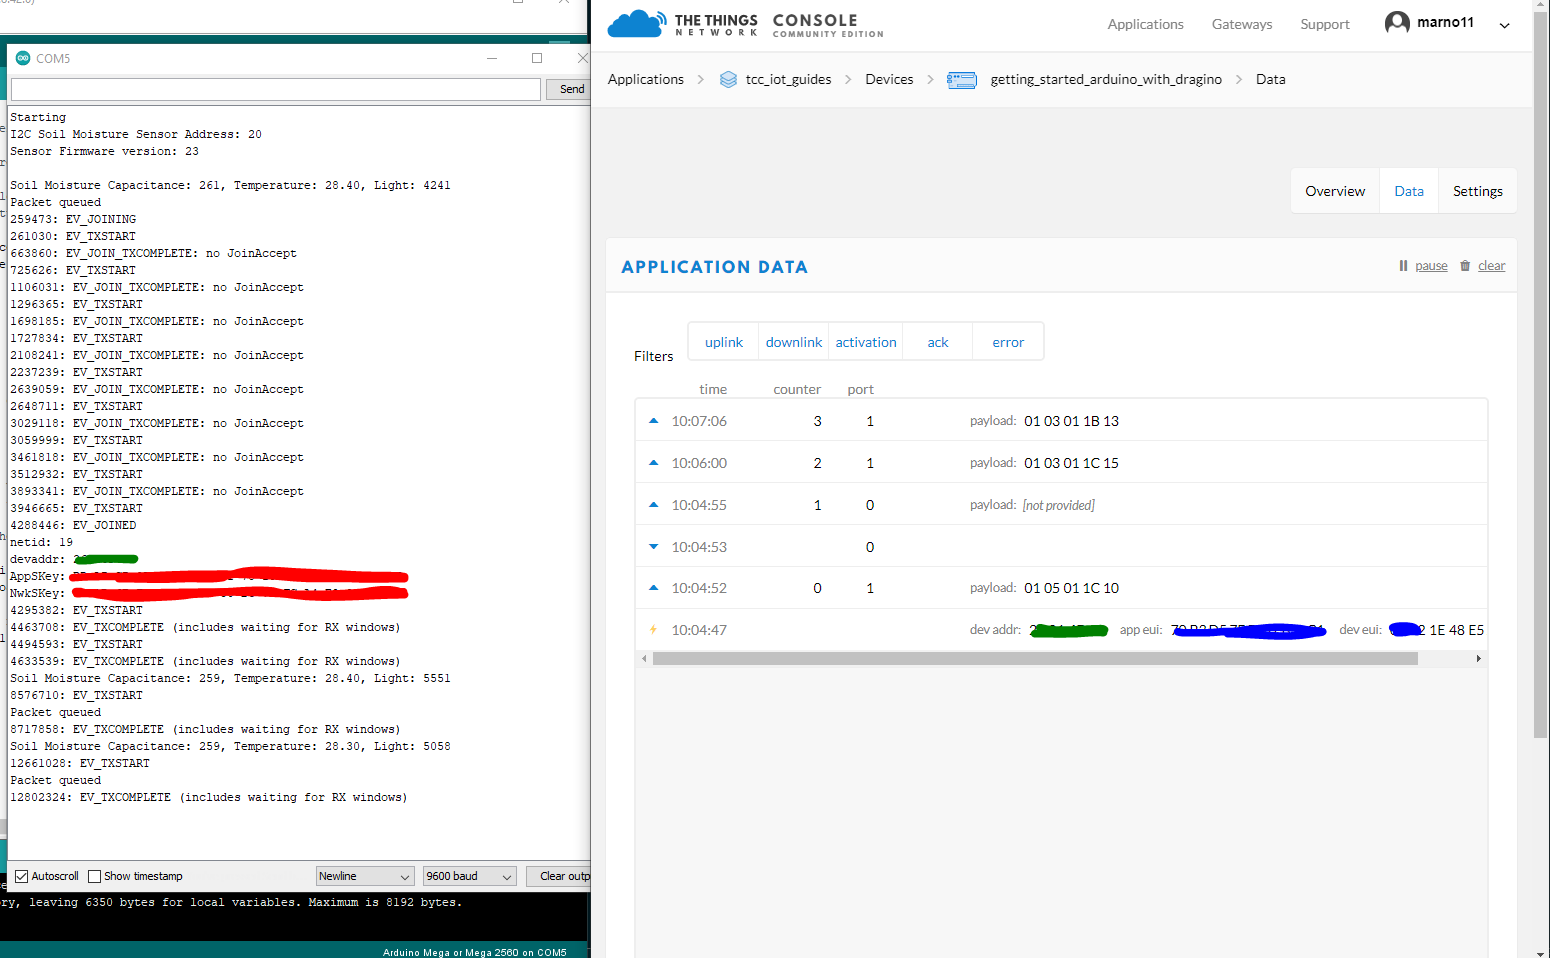
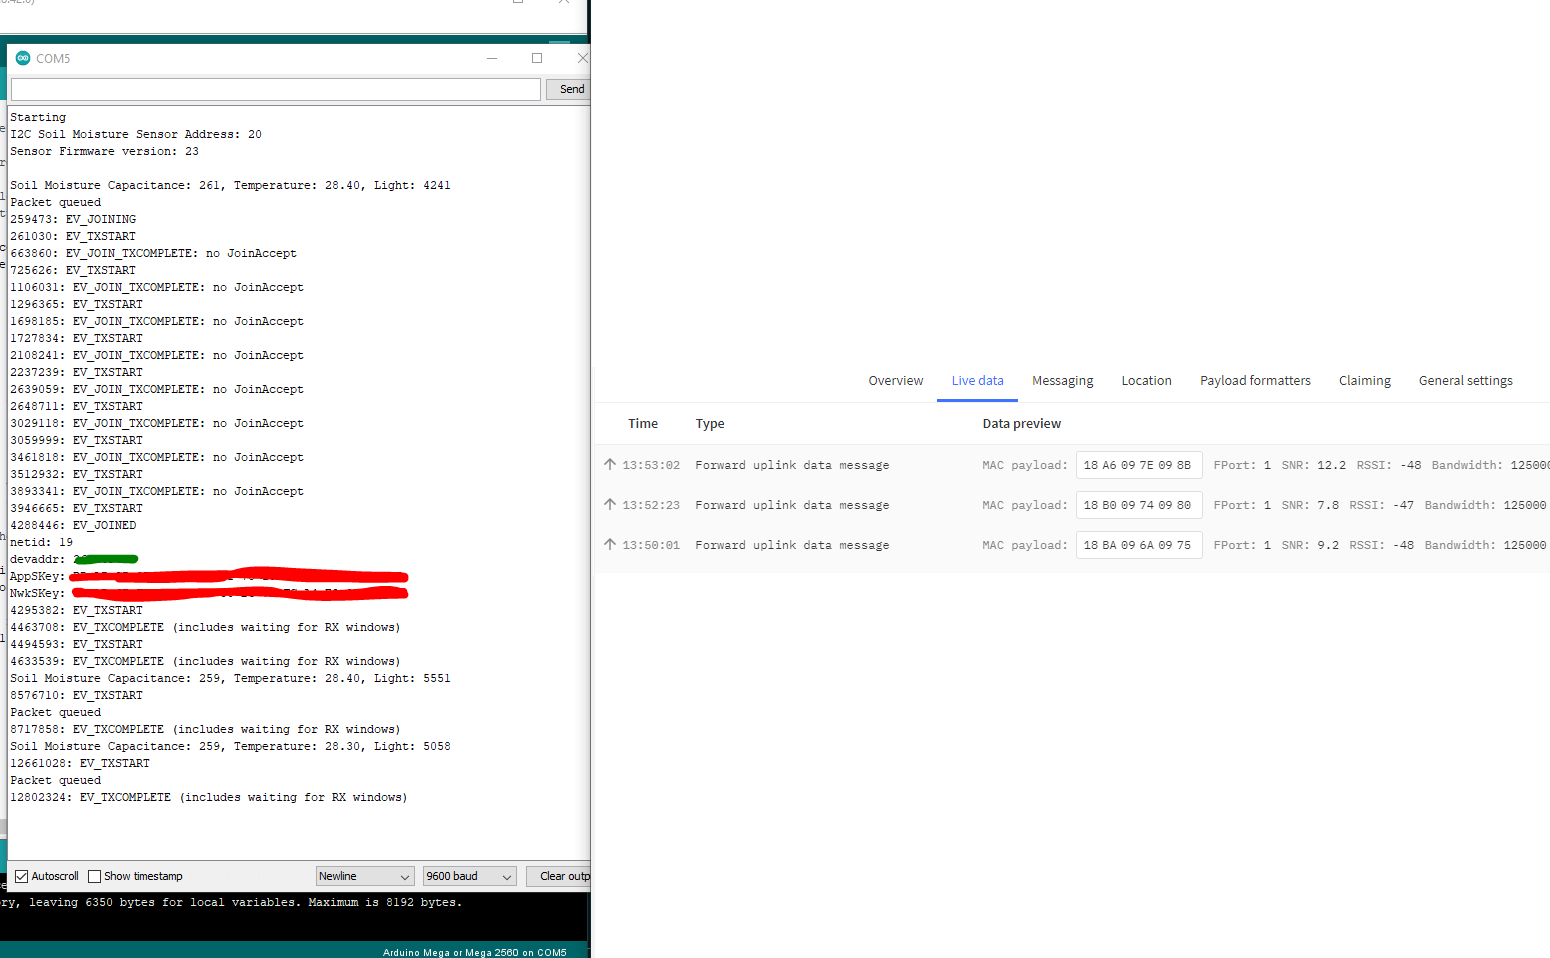
Update V3

diff --git a/README.md b/README.md
@@ -1,17 +1,17 @@
 # Moisture Sensor
-This guide is a continuation of the `Getting Started with the Arduino and Dragino Guide` and will make use of the application (on The Things Network) and device (physical Arduino + Dragino) set up during that guide. If you haven't followed the previous guide you will need to do that first, and  have:
+This guide is a continuation of the `Getting Started with the Arduino and Dragino Guide` and will make use of the application (on The Things Stack) and device (physical Arduino + Dragino) set up during that guide. If you haven't followed the previous guide you will need to do that first, and  have:
 - The Arduino and Dragino connected correctly, with an antenna
 - The Arduino connected your computer, and communicating correctly
 - The Arduino IDE installed
 - The `MCCI LoRaWAN LMIC library` installed and configured correctly, and
-- The Arduino/Dragino registered and communicating with The Things Network
+- The Arduino/Dragino registered and communicating with The Things Stack
 
 ## What you will need
 To follow this guide, you will The setup from the previous guide, with the addition of:
 - An [I2C Soil moisture sensor](https://www.tindie.com/products/miceuz/i2c-soil-moisture-sensor/).
 - 4 jump wires.
 
-You will still need to be in range of a Gateway connected to The Things Network which you can find out about [here](https://www.thethingsnetwork.org/community).
+You will still need to be in range of a Gateway connected to The Things Stack which you can find out about [here](https://www.thethingsnetwork.org/community).
 
 ## Step 1 - Install Library
 Install a library to help use the soil moisture sensor.
@@ -131,8 +131,8 @@ This code will:
 1. First wait until the sensor is not busy.
 1. Then it will record the soil moisture capacitance, temperature, and light readings from the sensor.
 1. Next it will display the values in the serial monitor so they can be checked easily.
-1. The code converts the values from numbers into a payload made of a buffer array that can be sent to The Things Network. To find out more about this process [here](https://www.thethingsnetwork.org/docs/devices/bytes.html).
-1. Finally the newly created payload is queued for transmission (instead of the static "Hello, world!" text) to The Things Network.
+1. The code converts the values from numbers into a payload made of a buffer array that can be sent to The Things Stack. To find out more about this process [here](https://www.thethingsnetwork.org/docs/devices/bytes.html).
+1. Finally the newly created payload is queued for transmission (instead of the static "Hello, world!" text) to The Things Stack.
 
 ### Testing
 1. Connect the Arduino to your computer using the USB cable.
@@ -141,18 +141,18 @@ This code will:
 1. Finally click the arrow button in the top left to upload your code to the Arduino.
 1. You should see a 'successful upload' message in the bottom of the Arduino IDE
 
-After it has finished uploading you can check the monitor at `Tools -> Serial Monitor` to see if it is working. You should see it connect to The Things Network, make measurements and send those measurements.
+After it has finished uploading you can check the monitor at `Tools -> Serial Monitor` to see if it is working. You should see it connect to The Things Stack, make measurements and send those measurements.
 
-You can also now go to the `Data` tab on your The Things Network application to see the data being sent.
+You can also now go to the `Live Data` tab on your The Things Stack application to see the data being sent.
 
 *Remember: Don't be worried if it fails to connect a few times*
 
 ![Connect & Measure Successful](readme-images/connect-and-send.png)
 
 ## Step 4 - Decoding the message
-Now that we have encoded the message and sent it to The Things Network we need to tell The Things Network what to do with it.
+Now that we have encoded the message and sent it to The Things Stack we need to tell The Things Stack what to do with it.
 
-- In your application on The Things Network, go to the tab named `Payload Formats`
+- In your application on The Things Stack, go to the tab named `Payload Formatters`
 - In here we can write code to decrypt the data we get from our device.
 - Enter the following into the decoder
 
@@ -192,6 +192,5 @@ Finally the numbers are returned as field 1, field 2 and field 3.
 
 ### The Decoded Message
 
-You can also now go to the `Data` tab on your The Things Network application to see the data being sent, just like before, but now the "decoded" values are shown as well.
+You can also now go to the `Live Data` tab on your The Things Network application to see the data being sent, just like before, but now the "decoded" values are shown as well.
 
-![Decoded Payload](readme-images/decoded-payload.jpg)
